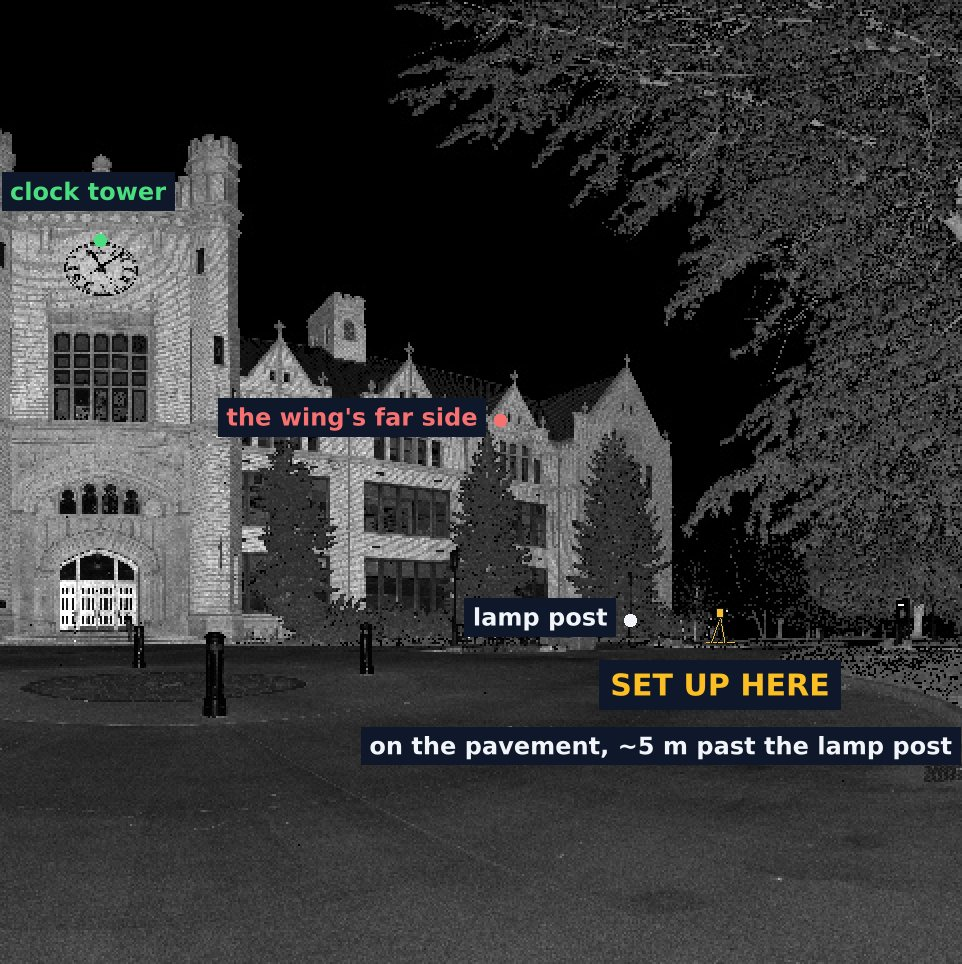
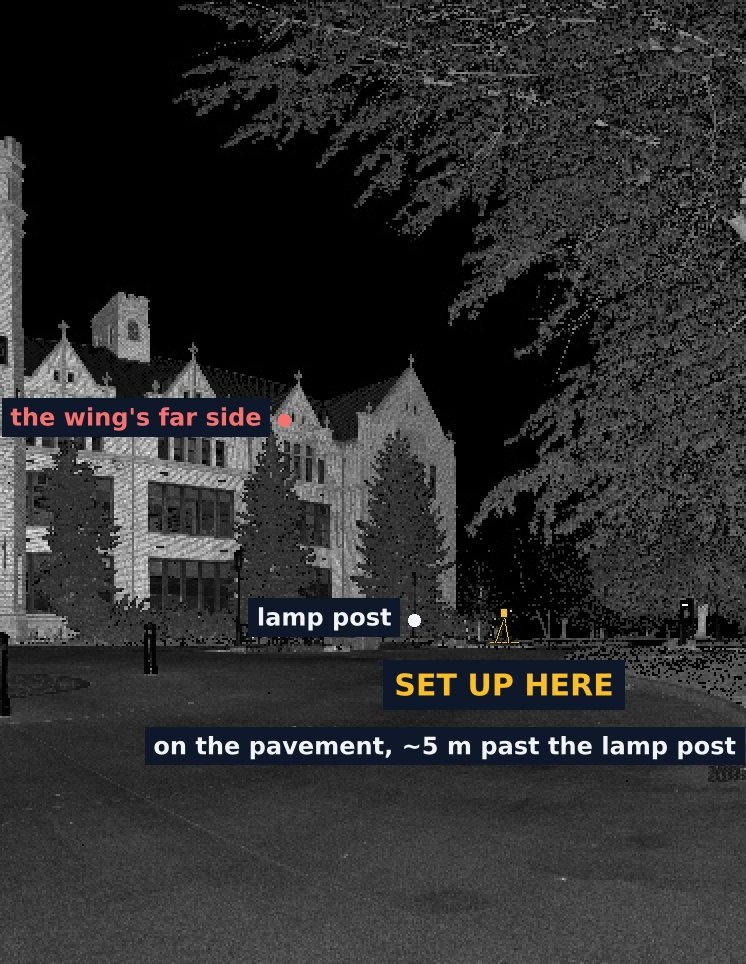
Station preview: crop to the wing, the tower out of frame
The proposal picture keeps the same render, cropped so the tower and its
label are out of the frame; the captions follow.

diff --git a/README.md b/README.md
@@ -49,7 +49,7 @@ proposing the next station.</td>
 <table>
 <tr>
 <td width="50%"><img src="docs/img/demo-scan-next-plan.jpg" alt="Station 1 from above: ground in grey, walls and trunks in white, canopy in green, and three numbered picks on open ground 25 to 38 m out, each with its landmark."></td>
-<td width="50%"><img src="docs/img/demo-scan-next-station.jpg" alt="Station 1's preview: the clock tower marked as seen, the wing's far side as hidden, a lamp post as the landmark, and a tripod drawn its real size on the pavement beyond it, casting a shadow."></td>
+<td width="50%"><img src="docs/img/demo-scan-next-station.jpg" alt="Station 1's preview: the wing's far side marked as hidden, a lamp post as the landmark, and a tripod drawn its real size on the pavement beyond it, casting a shadow."></td>
 </tr>
 <tr>
 <td valign="top"><b>The plan</b>, from the station's own points: ground,

diff --git a/docs/guide.md b/docs/guide.md
@@ -1167,7 +1167,7 @@ the tripod, the one thing they walk past to reach it, and the measured
 distance in the label. The other spots, when asked, are their distances.
 The plot from above stays off this picture.
 
-![This station's view. The clock tower is seen, the wing's far side is hidden, and the tripod stands on the pavement about 5 m past the lamp post.](img/demo-scan-next-station.jpg)
+![This station's view. The wing's far side is hidden, and the tripod stands on the pavement about 5 m past the lamp post.](img/demo-scan-next-station.jpg)
 
 ```bash
 curl -s -X PUT -H "$H" -d '{
